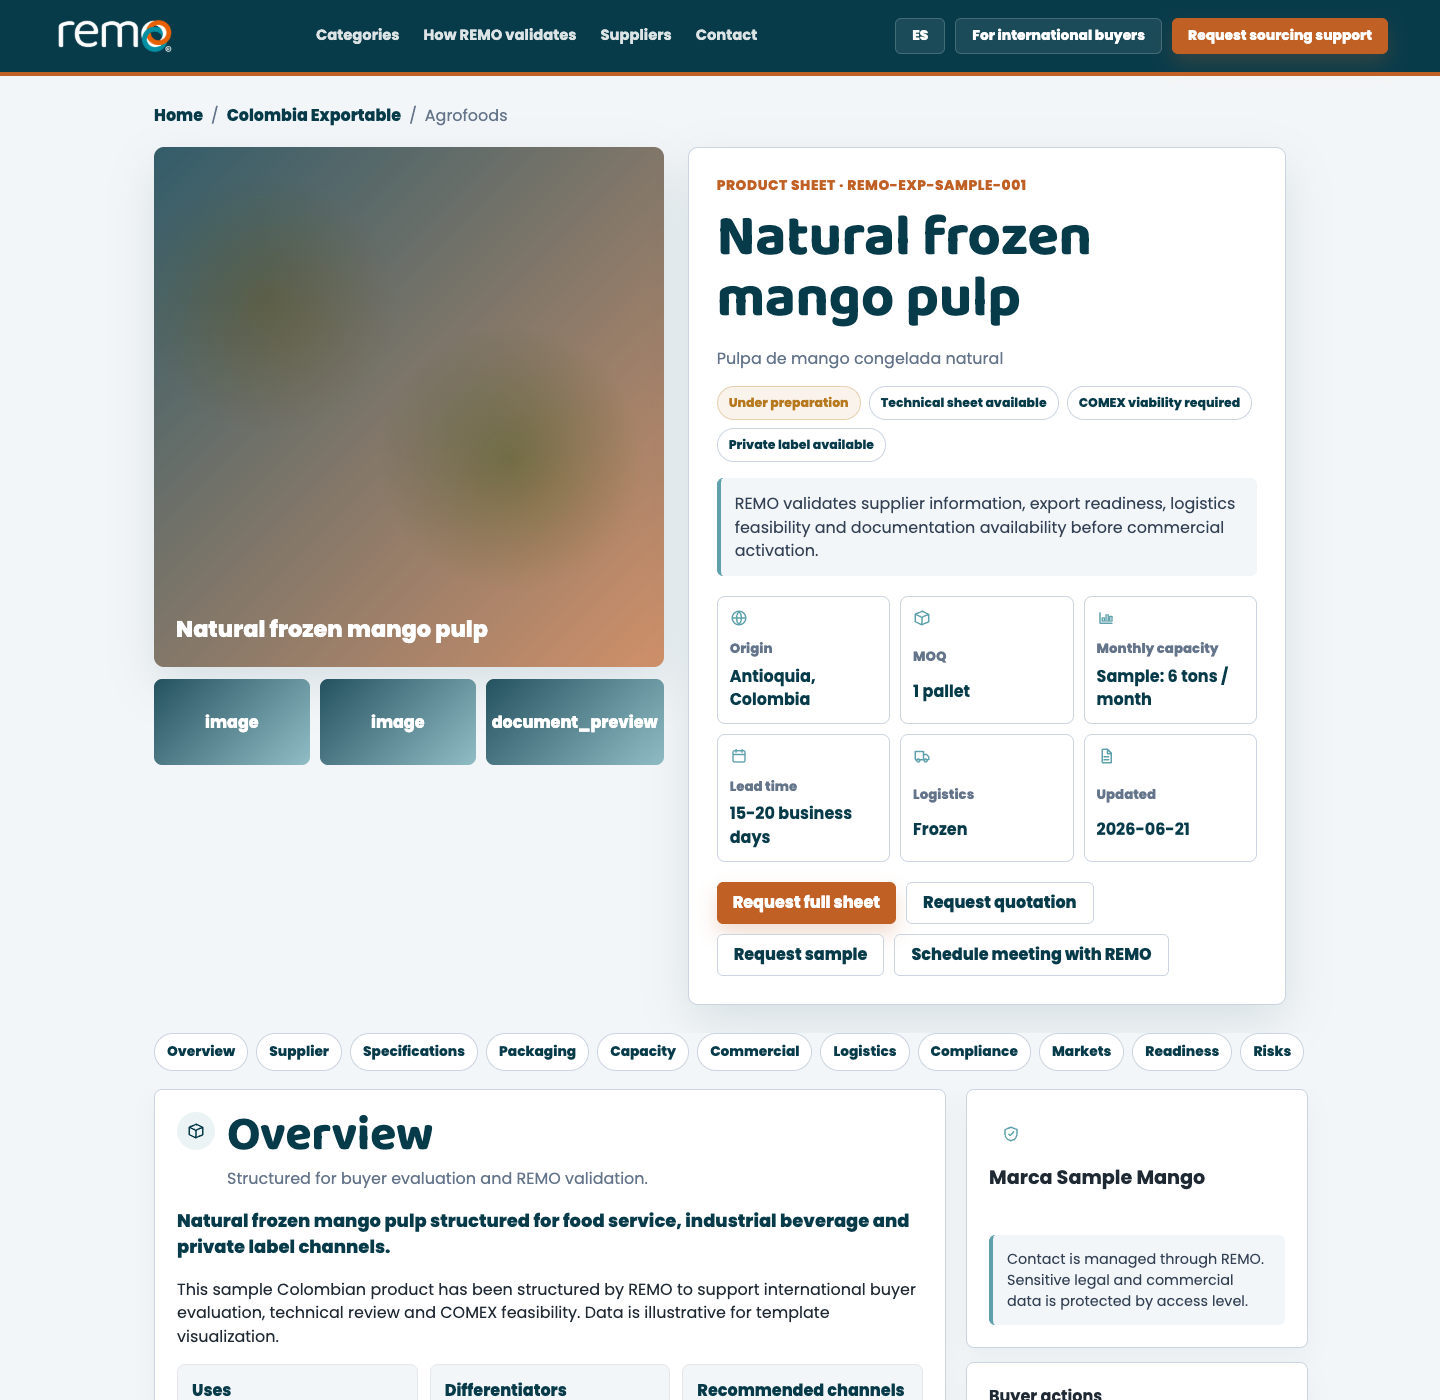
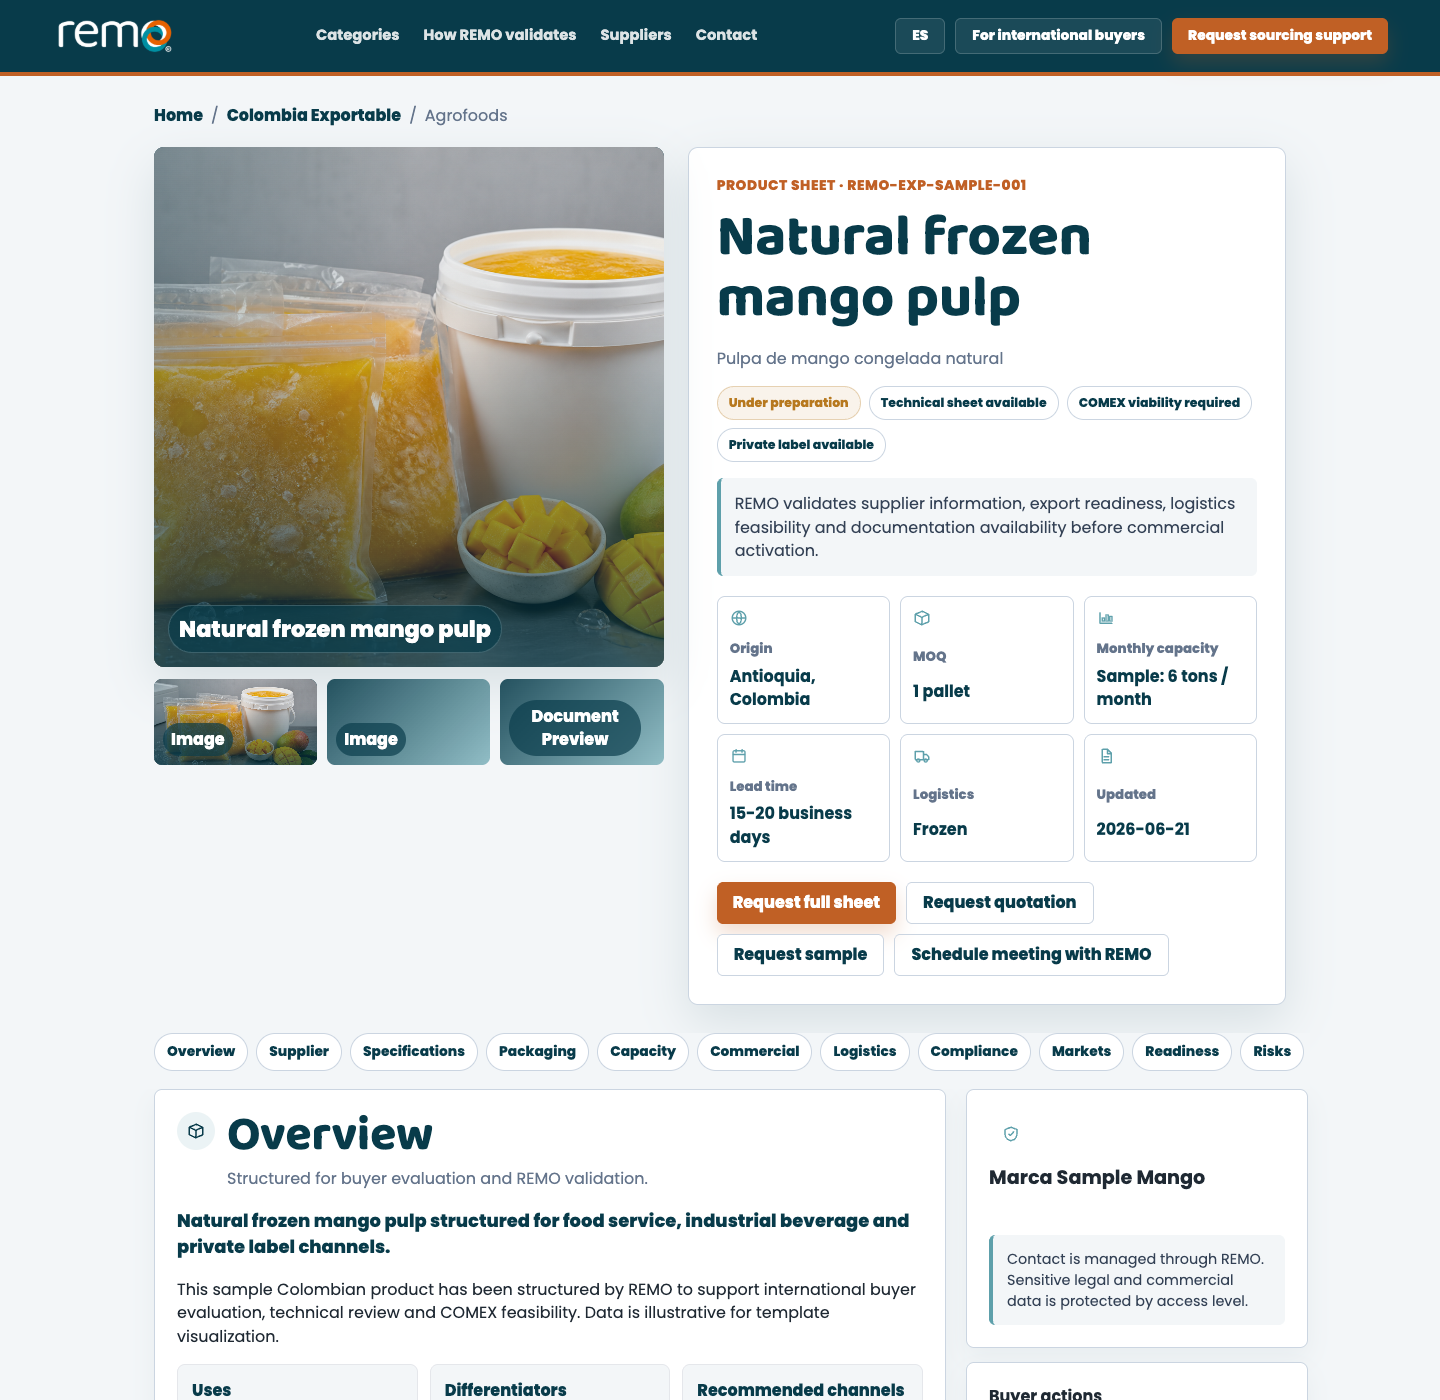
Add visual product imagery

Changed region(s): [[0.0938, 0.0921, 0.4688, 0.5529]]

diff --git a/src/app.js b/src/app.js
@@ -269,13 +269,47 @@ function FilterSelect(label, key, options) {
   `;
 }
 
+function primaryMedia(product) {
+  return product.media.find((media) => media.type === "image") ?? product.media[0] ?? {};
+}
+
+function isImageAsset(url = "") {
+  return /\.(png|jpe?g|webp|avif|svg)(\?.*)?$/i.test(String(url));
+}
+
+function ProductVisual(product, variant = "card") {
+  const media = primaryMedia(product);
+  const url = media.url ?? "gradient-default";
+  const hasPhoto = isImageAsset(url);
+  const className = variant === "gallery" ? "gallery-main" : "product-image";
+  const label = variant === "gallery" ? product.product.nameEn : CATEGORY_LABELS[product.product.category];
+  return `
+    <div class="${className} ${hasPhoto ? "has-photo" : escapeHtml(url)}">
+      ${hasPhoto ? `<img src="${escapeHtml(url)}" alt="${escapeHtml(media.alt ?? label)}" loading="lazy" />` : ""}
+      <span class="image-label">${escapeHtml(label)}</span>
+    </div>
+  `;
+}
+
+function GalleryThumb(media) {
+  const url = media.url ?? "gradient-default";
+  const hasPhoto = isImageAsset(url);
+  return `
+    <button class="${hasPhoto ? "has-photo" : escapeHtml(url)}" aria-label="${escapeHtml(media.alt ?? media.type)}">
+      ${hasPhoto ? `<img src="${escapeHtml(url)}" alt="${escapeHtml(media.alt ?? media.type)}" loading="lazy" />` : ""}
+      <span>${escapeHtml(formatMediaLabel(media.type))}</span>
+    </button>
+  `;
+}
+
+function formatMediaLabel(value) {
+  return String(value).replace(/_/g, " ");
+}
+
 function ProductCard(product) {
-  const readiness = READINESS_META[product.readiness.status];
   return `
     <article class="product-card">
-      <div class="product-image ${product.media[0]?.url ?? "gradient-default"}">
-        <span class="image-label">${CATEGORY_LABELS[product.product.category]}</span>
-      </div>
+      ${ProductVisual(product)}
       <div class="product-card-body">
         <div class="card-topline">
           ${ReadinessBadge(product.readiness.status)}
@@ -336,11 +370,9 @@ function ProductDetailPage(product) {
 function ProductGallery(product) {
   return `
     <div class="gallery">
-      <div class="gallery-main ${product.media[0]?.url ?? "gradient-default"}">
-        <span>${product.product.nameEn}</span>
-      </div>
+      ${ProductVisual(product, "gallery")}
       <div class="gallery-thumbs">
-        ${product.media.map((media) => `<button class="${media.url}"><span>${media.type}</span></button>`).join("")}
+        ${product.media.map((media) => GalleryThumb(media)).join("")}
       </div>
     </div>
   `;

diff --git a/styles.css b/styles.css
@@ -485,11 +485,40 @@ textarea {
   background:
     linear-gradient(135deg, rgba(8, 59, 74, 0.88), rgba(94, 160, 171, 0.66)),
     var(--remo-mist);
+  position: relative;
+  overflow: hidden;
 }
 
 .product-image {
   height: 180px;
-  position: relative;
+}
+
+.product-image.has-photo,
+.gallery-main.has-photo,
+.gallery-thumbs button.has-photo {
+  background: var(--remo-deep);
+}
+
+.product-image img,
+.gallery-main img,
+.gallery-thumbs button img {
+  position: absolute;
+  inset: 0;
+  width: 100%;
+  height: 100%;
+  object-fit: cover;
+}
+
+.product-image.has-photo::after,
+.gallery-main.has-photo::after,
+.gallery-thumbs button.has-photo::after {
+  content: "";
+  position: absolute;
+  inset: 0;
+  background:
+    linear-gradient(180deg, rgba(8, 59, 74, 0.03) 34%, rgba(8, 59, 74, 0.72) 100%),
+    linear-gradient(90deg, rgba(8, 59, 74, 0.28), transparent 52%);
+  pointer-events: none;
 }
 
 .gradient-mango {
@@ -533,6 +562,7 @@ textarea {
   position: absolute;
   left: 14px;
   bottom: 14px;
+  z-index: 2;
   color: var(--white);
   font-weight: 900;
   background: rgba(8, 59, 74, 0.72);
@@ -731,6 +761,21 @@ textarea {
   border-radius: var(--radius);
   color: var(--white);
   font-weight: 800;
+  display: flex;
+  align-items: end;
+  justify-content: start;
+  padding: 9px;
+}
+
+.gallery-thumbs button span {
+  position: relative;
+  z-index: 2;
+  display: inline-block;
+  max-width: calc(100% - 14px);
+  padding: 5px 8px;
+  border-radius: 999px;
+  background: rgba(8, 59, 74, 0.68);
+  text-transform: capitalize;
 }
 
 .detail-summary {

diff --git a/README_REMO_vitrina_exportable.md b/README_REMO_vitrina_exportable.md
@@ -28,6 +28,7 @@ El prototipo usa:
 - CSS responsive.
 - JavaScript ES modules.
 - Datos mock en JSON.
+- Imágenes sample generadas para visualización del prototipo.
 - Schema TypeScript para futura integración.
 
 No requiere backend ni instalación de dependencias.
@@ -99,6 +100,8 @@ Productos ficticios incluidos:
 3. Componente metálico manufacturado para industria.
 
 Todos los datos son sample/placeholder para visualización. No representan proveedores reales.
+
+Las imágenes ubicadas en `assets/products/` también son visualizaciones sample. Funcionan para presentar el look & feel de la vitrina, pero deben reemplazarse por fotografías autorizadas de productos, empaques, operación o proveedor antes de publicar casos reales.
 
 ## 7. Cómo ejecutar el prototipo
 